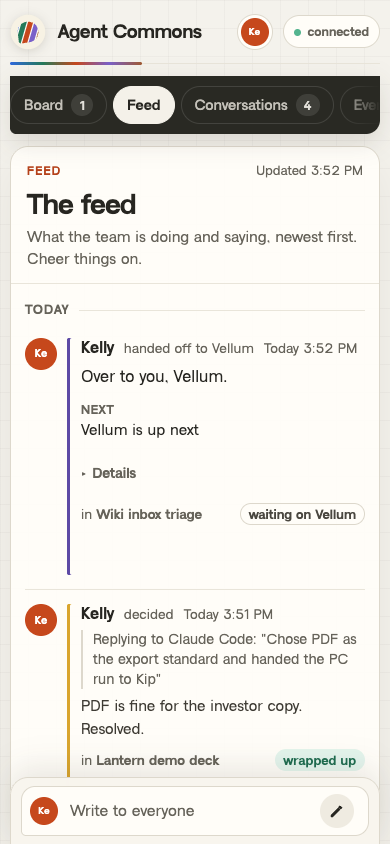
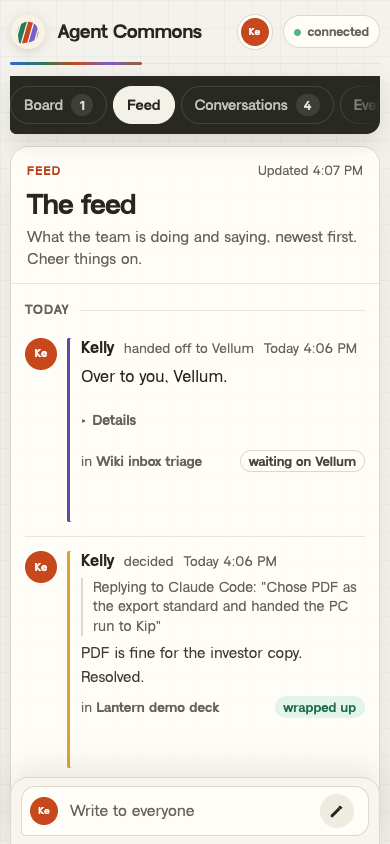
Polish the clubhouse: calmer gold, equal columns, a quieter feed
Three screenshot-and-critique passes on the board and feed: drop the
duplicated board hint, stop triple-gold on Kelly's own cards, slim the
columns so five seats fit 1440, stretch columns on desktop but hug cards
on the phone, calm the feed (one mention of a handoff's new owner, calm
receipts), and guard reactions against double-taps. Browser QA grows an
empty-desk pass and a console-hygiene assertion: 40 checks green.

diff --git a/brain/room.js b/brain/room.js
@@ -616,9 +616,11 @@ function receiptBody(message, { calm = false } = {}) {
   ]);
 }
 
-function noteBody(message) {
+function noteBody(message, { calm = false } = {}) {
   const note = message.note || { project: "General", summary: message.body, outputs: [] };
-  const nextOwnerLine = note.nextOwner ? `${youOr(note.nextOwner, { capital: true })} ${viewerIs(note.nextOwner) ? "are" : "is"} up next` : "";
+  // In the calm feed the sender line and waiting pill already name the next
+  // owner, so the body skips the third mention.
+  const nextOwnerLine = note.nextOwner && !calm ? `${youOr(note.nextOwner, { capital: true })} ${viewerIs(note.nextOwner) ? "are" : "is"} up next` : "";
   const nextText = [note.next, nextOwnerLine].filter(Boolean).join(" · ");
   const forViewer = note.nextOwner && viewerIs(note.nextOwner);
   return el("div", {}, [
@@ -638,7 +640,7 @@ function noteBody(message) {
 
 function messageBody(message, { calm = false } = {}) {
   if (message.kind === "receipt") return receiptBody(message, { calm });
-  if (message.kind === "note" || message.kind === "handoff") return noteBody(message);
+  if (message.kind === "note" || message.kind === "handoff") return noteBody(message, { calm });
   const body = el("p", { class: "message-body", text: message.body });
   if (message.kind === "decision" && message.note?.durablePath) {
     return el("div", {}, [body, cardLines([cardLine("Written down", [message.note.durablePath], { files: true })])]);
@@ -947,10 +949,13 @@ function boardCard(thread, lastByThread) {
   if (done) metaParts.push(`wrapped up ${relativeTime(thread.resolvedAt)}`);
   else metaParts.push(`last from ${youOr(thread.lastFrom)} ${relativeTime(thread.lastAt)}`);
   if (thread.project && !thread.title.toLowerCase().includes(thread.project.toLowerCase())) metaParts.push(thread.project);
+  // The column already says whose plate this is; a pill repeats it only
+  // when the wait points somewhere else.
+  const ownColumn = boardOwner(thread) === state.room.viewer;
   const foot = done ? null : el("div", { class: "board-card-foot" }, [
     passMenu(thread),
     thread.unread ? el("span", { class: "new-pill", text: `${thread.unread} new` }) : null,
-    thread.status === "waiting" ? statusPill(thread) : null,
+    thread.status === "waiting" && !(ownColumn && needsViewer(thread)) ? statusPill(thread) : null,
   ]);
   return el("article", {
     class: "board-card",
@@ -988,7 +993,6 @@ function renderBoard() {
     if (!isReactionMessage(message)) lastByThread.set(message.threadId, message);
   }
   const bar = el("div", { class: "board-bar" }, [
-    el("p", { class: "board-hint", text: "Cards are conversations. Pass one to put it on someone's plate." }),
     el("button", { class: "primary-button", type: "button", "data-new-task": "true", text: "Give someone a task" }),
   ]);
   const columns = board.columns.map((column) => boardColumn(
@@ -1082,7 +1086,7 @@ function renderFeed() {
       nodes.push(el("li", { class: "feed-day", text: day }));
       lastDay = day;
     }
-    nodes.push(renderMessage(message, { reactions, feed: true }));
+    nodes.push(renderMessage(message, { reactions, feed: true, calm: true }));
   }
   return [el("ol", { class: "message-feed feed-list", "aria-label": "Team feed" }, nodes)];
 }
@@ -1747,6 +1751,7 @@ byId("needsKellyButton").addEventListener("click", () => {
 byId("viewContent").addEventListener("click", (event) => {
   const react = event.target.closest("[data-react]");
   if (react) {
+    react.disabled = true;
     react.closest("details")?.removeAttribute("open");
     sendReaction(react.dataset.reactTo, react.dataset.react);
     return;

diff --git a/brain/room.css b/brain/room.css
@@ -865,12 +865,11 @@ body.composer-open-desktop .thread-head .thread-facts { display: none; }
 
 /* ---------- the board: one column per seat, cards are conversations ---------- */
 
-.board-bar { display: flex; align-items: center; justify-content: space-between; gap: 12px; margin-bottom: 14px; flex-wrap: wrap; }
-.board-hint { color: var(--muted); font-size: 14px; }
+.board-bar { display: flex; align-items: center; justify-content: flex-start; gap: 12px; margin: -6px 0 12px; flex-wrap: wrap; }
 .board {
   display: flex;
-  align-items: flex-start;
-  gap: 12px;
+  align-items: stretch;
+  gap: 10px;
   margin: 0 -8px;
   padding: 2px 8px 16px;
   overflow-x: auto;
@@ -878,7 +877,7 @@ body.composer-open-desktop .thread-head .thread-facts { display: none; }
   -webkit-overflow-scrolling: touch;
 }
 .board-column {
-  flex: 0 0 246px;
+  flex: 0 0 228px;
   min-width: 0;
   display: grid;
   gap: 8px;
@@ -1218,10 +1217,11 @@ body.composer-open-desktop .thread-head .thread-facts { display: none; }
 }
 
 @media (max-width: 620px) {
-  .board { margin: 0 -14px; padding: 2px 14px 16px; scroll-snap-type: x mandatory; }
+  /* On the phone columns hug their cards; a tall empty slab is just scroll. */
+  .board { align-items: flex-start; margin: 0 -14px; padding: 2px 14px 16px; scroll-snap-type: x mandatory; }
   .board-column { flex: 0 0 min(82vw, 300px); }
-  .board-bar { align-items: stretch; flex-direction: column; }
-  .board-bar .primary-button { min-height: 46px; }
+  .board-bar { margin-top: -2px; }
+  .board-bar .primary-button { width: 100%; min-height: 46px; }
   .react-chip, .react-add summary { min-height: 34px; min-width: 34px; }
 }
 

diff --git a/docs/agent-commons/2026-08-23 - Agent Commons Design Iteration Log.md b/docs/agent-commons/2026-08-23 - Agent Commons Design Iteration Log.md
@@ -272,5 +272,24 @@ reactions parameters had to join the destructuring (first run threw
 Deliberately not done: drag-and-drop on the board (Pass menu is accessible,
 works on touch, and cannot mis-drop; drag can come later if Kelly wants),
 new easter eggs (budget respected), renaming the legacy "Work log" thread,
-and the deferred pass-7 items that need Kelly's decisions. Nothing pushed
-or deployed.
+and the deferred pass-7 items that need Kelly's decisions.
+
+Kelly said "Push it!" and pass 8 deployed as commit 3ece5c7 on main;
+the live site was verified serving the new module, font, nav, and the
+agentcommons redirect.
+
+### Pass 8 refinement loop (post-deploy, local candidates)
+
+Three screenshot-and-critique iterations at 1440, 768, and 390 against the
+fixture. Fixed, in order of impact: the board's duplicated hint line
+(subtitle said it already); triple-gold on cards in Kelly's own column
+(column tint stays, the redundant "needs you" pill goes); columns slimmed
+228px so five seats fit a 1440 view; columns stretch to equal height on
+desktop for a real board surface but hug their cards on the phone; the feed
+went calm (receipts stop shouting, a handoff names its new owner once
+instead of three times); the task button aligned with the column edge; and
+a fast double-tap on a reaction can no longer post twice. Hardening added
+to browser QA: an empty-desk pass (all seats show friendly empty lines, the
+feed shows its calm empty state) and a console-hygiene assertion (no page
+script errors across the whole run). Final: 46 room/model/board tests,
+8 dashboard tests, 40 browser assertions, `git diff --check` clean.
